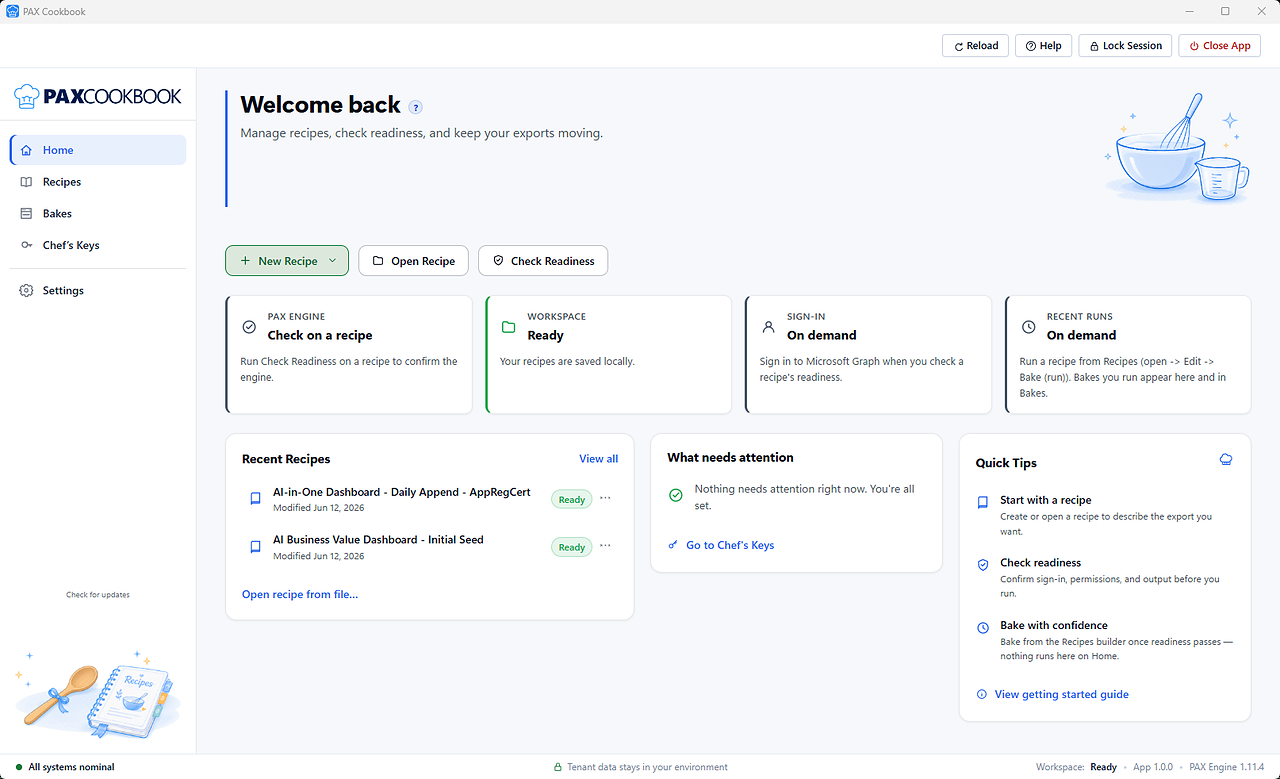
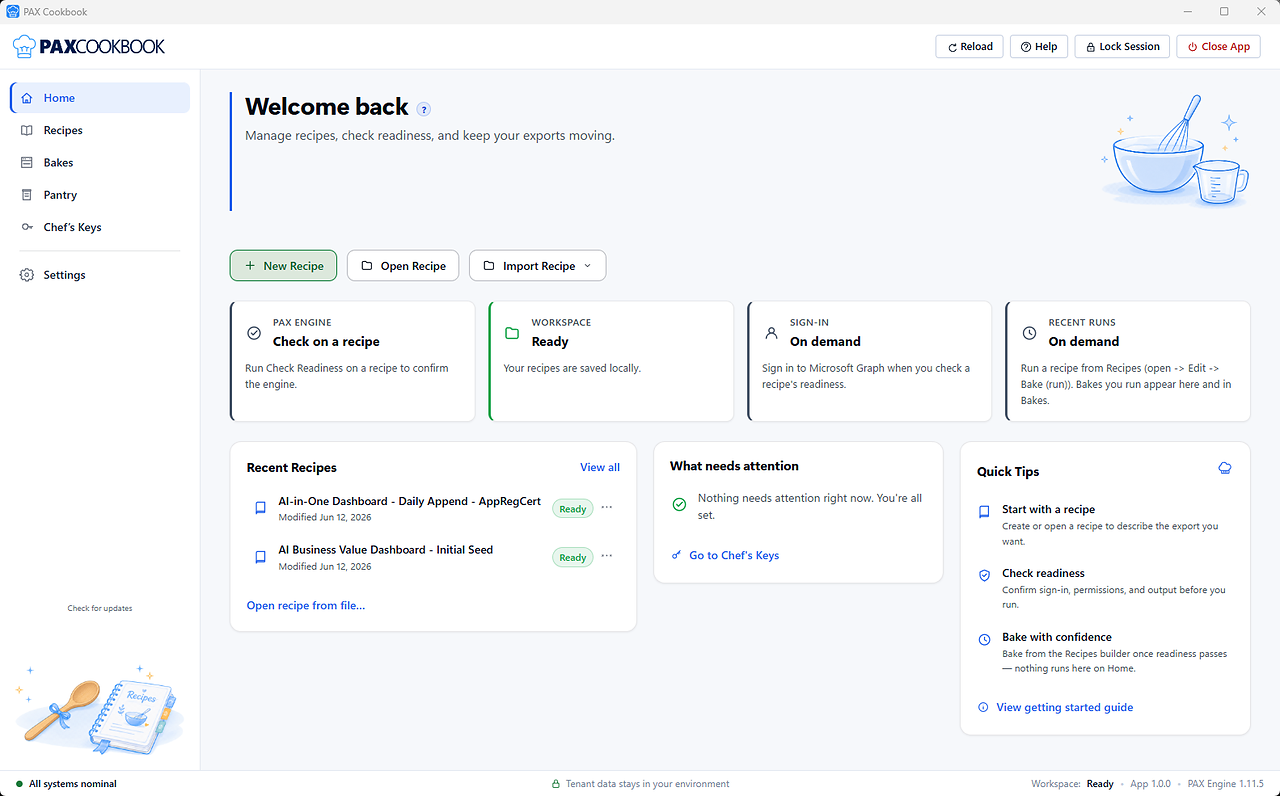
Home hero: update the full-app screenshot to the latest PAX Cookbook home-page capture (now shows PAX Engine 1.11.5). Regenerated pax-app-home-{640,1280,1573}.png from the updated source (_backup/images/PAX App Sample Home Page.png, now 1583x985; uniform LANCZOS downscale, no distortion; largest var

diff --git a/index.html b/index.html
@@ -19,7 +19,7 @@
     <meta property="og:type" content="website" />
     <meta property="og:url" content="https://microsoft.github.io/PAX-Cookbook/" />
     <title>PAX Cookbook | Turn complex Copilot and M365 app audit pulls into repeatable recipes.</title>
-    <script type="module" crossorigin src="/PAX-Cookbook/assets/main-BRf8LHDH.js"></script>
+    <script type="module" crossorigin src="/PAX-Cookbook/assets/main-CWULJsc0.js"></script>
     <link rel="modulepreload" crossorigin href="/PAX-Cookbook/assets/global-CakZyIGS.js">
     <link rel="stylesheet" crossorigin href="/PAX-Cookbook/assets/global-CHAijisD.css">
   </head>

diff --git a/assets/main-CWULJsc0.js b/assets/main-CWULJsc0.js
@@ -1,0 +1,1 @@
+import{j as e,b as r,B as l,o as h,I as n,a as t,l as m,m as b,V as k,d as y,H as g,F as w,C as f,c as v,R as z}from"./global-CakZyIGS.js";function S(){const s=r.hero.proofChips,a="v=20260614";return e.jsx("section",{id:"top",className:"hero",children:e.jsxs("div",{className:"container",children:[e.jsxs("div",{className:"hero__top",children:[e.jsxs("span",{className:"hero__eyebrow",children:[e.jsx("span",{className:"dot","aria-hidden":"true"}),r.hero.eyebrow]}),e.jsxs("div",{className:"hero__head",children:[e.jsxs("h1",{className:"hero__title",children:[r.hero.titlePrefix,e.jsx("span",{className:"hero__title-accent",children:r.hero.titleAccent})]}),e.jsx("p",{className:"hero__sub",children:r.hero.sub})]}),e.jsxs("div",{className:"hero__cta-row",id:"download",children:[e.jsx("div",{className:"hero__cta-primary",children:e.jsxs(l,{type:"button",size:"lg",onClick:h,children:[e.jsxs("span",{className:"btn__main",children:[e.jsx(n,{name:"download"}),r.hero.ctaPrimary]}),e.jsx("img",{className:"btn__win11",src:t("windows11-logo.png"),alt:"Windows 11",width:180,height:36,decoding:"async"})]})}),e.jsxs(l,{href:m.paxRepo,variant:"secondary",size:"lg",children:[e.jsxs("span",{className:"btn__main",children:[e.jsx(n,{name:"github"}),r.hero.ctaSecondary]}),e.jsx("img",{className:"btn__msos",src:t("microsoft-opensource-logo.png"),alt:"Microsoft Open Source",width:306,height:36,decoding:"async"})]})]}),e.jsxs("div",{className:"hero__visual","aria-hidden":"true",children:[e.jsxs("div",{className:"hero-visual-art","aria-hidden":"true",children:[e.jsx("span",{className:"hero-shape hero-shape--amber"}),e.jsx("span",{className:"hero-shape hero-shape--blue"})]}),e.jsx("div",{className:"mockup",children:e.jsx("img",{className:"mockup__img",src:t(`pax-app-home-640.png?${a}`),srcSet:`${t(`pax-app-home-640.png?${a}`)} 640w, ${t(`pax-app-home-1280.png?${a}`)} 1280w, ${t(`pax-app-home-1573.png?${a}`)} 1573w`,sizes:"(max-width: 980px) 92vw, 768px",alt:"",width:1573,height:979,decoding:"async",loading:"eager"})})]})]}),e.jsx("ul",{className:"hero__chips","aria-label":"What you get",children:s.map(i=>e.jsxs("li",{className:`hero__chip hero__chip--${i.tone}`,children:[e.jsx("span",{className:"hero__chip-ico","aria-hidden":"true",children:e.jsx(n,{name:i.icon,size:16})}),e.jsxs("span",{className:"hero__chip-text",children:[e.jsx("span",{className:"hero__chip-label",children:i.label}),e.jsx("span",{className:"hero__chip-sub",children:i.sub})]})]},i.label))})]})})}function o({id:s,eyebrow:a,title:i,lede:c,tone:x="default",narrow:p,children:_,trailing:u}){const N=["section",x==="tinted"?"section--tinted":"",p?"section--narrow":""].filter(Boolean).join(" ");return e.jsx("section",{id:s,className:N,children:e.jsxs("div",{className:"container",children:[(a||i||c)&&e.jsxs("header",{className:"section__head",children:[a&&e.jsx("div",{className:"section__eyebrow",children:a}),i&&e.jsx("h2",{className:"section__title",children:i}),c&&e.jsx("p",{className:"section__lede",children:c}),u]}),_]})})}function d({tone:s="brand",children:a}){const i=`badge badge--${s}`;return e.jsx("span",{className:i,children:a})}function q(){const{raw:s,cookbook:a}=r.rawVsCookbook;return e.jsx(o,{id:"why",eyebrow:r.rawVsCookbook.eyebrow,title:r.rawVsCookbook.title,lede:r.rawVsCookbook.lede,children:e.jsxs("div",{className:"compare",children:[e.jsxs("div",{className:"compare__col compare__col--raw",children:[e.jsxs("div",{className:"compare__head",children:[e.jsx(d,{tone:"neutral",children:"Engine"}),e.jsx("span",{className:"compare__name",children:s.name})]}),e.jsx("p",{className:"muted",children:s.tagline}),e.jsx("ul",{className:"compare__list",children:s.bullets.map(i=>e.jsx("li",{children:i},i))})]}),e.jsx("div",{className:"compare__bridge","aria-hidden":"true",children:e.jsxs("svg",{viewBox:"0 0 24 24",fill:"none",stroke:"currentColor",strokeWidth:"2",strokeLinecap:"round",strokeLinejoin:"round",children:[e.jsx("path",{d:"M5 12h14"}),e.jsx("path",{d:"M13 6l6 6-6 6"})]})}),e.jsxs("div",{className:"compare__col compare__col--cookbook",children:[e.jsxs("div",{className:"compare__head",children:[e.jsx(d,{tone:"brand",children:"Recommended"}),e.jsx("span",{className:"compare__name",children:a.name})]}),e.jsx("p",{className:"muted",children:a.tagline}),e.jsx("ul",{className:"compare__list",children:a.bullets.map(i=>e.jsx("li",{children:i},i))})]})]})})}function C(){return e.jsx(o,{id:"full-kitchen",eyebrow:r.journey.eyebrow,title:r.journey.title,lede:r.journey.lede,tone:"tinted",children:e.jsx("ol",{className:"journey-grid","aria-label":"Kitchen workflow steps",children:r.journey.steps.map((s,a)=>e.jsxs("li",{className:`journey-step journey-step--${s.tone}`,children:[e.jsx("span",{className:"journey-step__node","aria-hidden":"true",children:a+1}),e.jsx("h3",{className:"journey-step__title",children:s.title}),e.jsx("p",{className:"journey-step__body",children:s.body})]},s.title))})})}function M(){return e.jsx(o,{eyebrow:r.features.eyebrow,title:r.features.title,lede:r.features.lede,children:e.jsx("div",{className:"feature-grid",children:r.features.cards.map(s=>e.jsxs("article",{className:`feature-card feature-card--${s.tone}`,children:[e.jsx("span",{className:"feature-card__icon","aria-hidden":"true",children:e.jsx(n,{name:s.icon,size:22})}),e.jsx("h3",{className:"feature-card__title",children:s.title}),e.jsx("p",{className:"feature-card__body",children:s.body})]},s.title))})})}function $(){return e.jsx("section",{id:"trust",className:"section section--navy",children:e.jsxs("div",{className:"container",children:[e.jsxs("header",{className:"section__head",children:[e.jsx("div",{className:"section__eyebrow",children:r.trust.eyebrow}),e.jsx("h2",{className:"section__title",children:r.trust.title})]}),e.jsxs("div",{className:"trust-band",children:[e.jsxs("div",{className:"trust-band__lead",children:[r.trust.body.map((s,a)=>e.jsx("p",{children:s},a)),e.jsx("a",{className:"trust-open-source-logo",href:"https://opensource.microsoft.com/",target:"_blank",rel:"noopener noreferrer","aria-label":"Microsoft Open Source",children:e.jsx("img",{src:t("microsoft-opensource-logo-white.png"),alt:"Microsoft Open Source",width:968,height:114,decoding:"async",loading:"lazy"})})]}),e.jsx("ul",{className:"trust-band__chips","aria-label":"Local-first principles",children:r.trust.pillars.map(s=>e.jsxs("li",{className:`trust-chip trust-chip--${s.tone}`,children:[e.jsx("span",{className:"trust-chip__icon","aria-hidden":"true",children:e.jsx(n,{name:s.icon,size:18})}),e.jsxs("span",{children:[e.jsx("div",{className:"trust-chip__title",children:s.title}),e.jsx("div",{className:"trust-chip__body",children:s.body})]})]},s.title))})]})]})})}function K(){const s=r.miniKitchen;return e.jsx("section",{id:"mini-kitchen",className:"section section--cream mk-splash",children:e.jsxs("div",{className:"container",children:[e.jsxs("header",{className:"section__head",children:[e.jsx("div",{className:"section__eyebrow",children:s.eyebrow}),e.jsx("h2",{className:"section__title",children:s.title})]}),e.jsxs("div",{className:"mk-splash__grid",children:[e.jsxs("div",{className:"mk-splash__copy",children:[e.jsxs("span",{className:"mk-splash__badge","aria-label":"Browser-only",children:[e.jsx(n,{name:"spark",size:14,"aria-hidden":"true"}),s.badge]}),e.jsx("div",{className:"mk-splash__body",children:s.body.map((a,i)=>e.jsx("p",{children:a},i))}),e.jsx("p",{className:"mk-splash__note",children:s.fullAppNote}),e.jsx("ul",{className:"mk-splash__chips","aria-label":"Mini-Kitchen highlights",children:s.chips.map(a=>e.jsx("li",{className:`mk-splash__chip mk-splash__chip--${a.tone}`,children:a.label},a.label))})]}),e.jsxs("div",{className:"mk-splash__compare",children:[e.jsxs("div",{className:"mk-splash__compare-card mk-splash__compare-card--mini",children:[e.jsxs("div",{className:"mk-splash__compare-title",children:[e.jsx(n,{name:"spark",size:16,"aria-hidden":"true"}),s.comparison.mini.title]}),e.jsx("ul",{children:s.comparison.mini.items.map(a=>e.jsx("li",{children:a},a))})]}),e.jsxs("div",{className:"mk-splash__compare-card mk-splash__compare-card--full",children:[e.jsxs("div",{className:"mk-splash__compare-title",children:[e.jsx(n,{name:"pot",size:16,"aria-hidden":"true"}),s.comparison.full.title]}),e.jsx("ul",{children:s.comparison.full.items.map(a=>e.jsx("li",{children:a},a))})]})]})]}),e.jsxs("div",{className:"mk-splash__cta-row",children:[e.jsx(l,{href:b(),className:"btn--stacked",children:e.jsxs("span",{className:"btn__row",children:[s.ctas.primary.label,e.jsx(n,{name:"arrow-right",size:16,"aria-hidden":"true"})]})}),e.jsxs(l,{type:"button",variant:"secondary",size:"md",onClick:h,children:[e.jsx(n,{name:"download",size:16,"aria-hidden":"true"}),s.ctas.secondary.label]}),e.jsxs(l,{href:m.paxRepo,variant:"secondary",size:"md","aria-label":`${s.ctas.tertiary.label} (opens GitHub in a new tab)`,children:[e.jsx(n,{name:"github",size:16,"aria-hidden":"true"}),s.ctas.tertiary.label]})]}),e.jsx(k,{className:"video-player--splash",srcMp4:"media/PAX_MiniKitchen_Teaser_Web_1080p.mp4",captionsVtt:"media/PAX_MiniKitchen_Teaser_Captions.vtt",poster:"media/PAX_MiniKitchen_Teaser_Poster.png",heading:"Watch Mini-Kitchen in action",supportingText:"See how Mini-Kitchen turns PAX setup choices into a copy-ready command."}),e.jsx("p",{className:"mk-splash__boundary",role:"note",children:s.boundaryNote})]})})}function R(){const{fullPath:s,scriptPath:a}=r.quickStart;return e.jsx(o,{id:"get-started",eyebrow:r.quickStart.eyebrow,title:r.quickStart.title,children:e.jsxs("div",{className:"quickstart",children:[e.jsxs("div",{className:"quickstart__col quickstart__col--recommended",children:[e.jsxs("div",{className:"quickstart__intro",children:[e.jsxs("div",{className:"quickstart__head",children:[e.jsx(d,{tone:"brand",children:s.badge}),e.jsx("h3",{children:s.label})]}),e.jsx("p",{className:"quickstart__lede muted",children:s.lede}),e.jsx("div",{className:"quickstart__cta-row",children:e.jsxs(l,{type:"button",size:"lg",onClick:h,children:[e.jsx(n,{name:s.cta.icon}),s.cta.label]})})]}),e.jsx("ol",{className:"quickstart__list",children:s.steps.map(i=>e.jsx("li",{children:e.jsxs("div",{children:[e.jsx("strong",{children:i.title}),e.jsx("small",{children:i.hint})]})},i.title))})]}),e.jsxs("div",{className:"quickstart__col quickstart__col--alt",children:[e.jsxs("div",{className:"quickstart__intro",children:[e.jsxs("div",{className:"quickstart__head",children:[e.jsx(d,{tone:"amber",children:a.badge}),e.jsx("h3",{children:a.label})]}),e.jsx("p",{className:"quickstart__lede muted",children:a.lede}),e.jsxs("div",{className:"quickstart__cta-row",children:[e.jsxs(l,{href:"#mini-kitchen",variant:"secondary",size:"md",children:[e.jsx(n,{name:a.ctas.primary.icon,size:14}),a.ctas.primary.label]}),e.jsxs(l,{href:m.paxRepo,variant:"secondary",size:"md","aria-label":`${a.ctas.secondary.label} (opens GitHub in a new tab)`,children:[e.jsx(n,{name:a.ctas.secondary.icon,size:14}),a.ctas.secondary.label]})]})]}),e.jsx("ol",{className:"quickstart__list",children:a.steps.map(i=>e.jsx("li",{children:e.jsxs("div",{children:[e.jsx("strong",{children:i.title}),e.jsx("small",{children:i.hint})]})},i.title))})]})]})})}function E(){return e.jsx(o,{id:"resources",eyebrow:r.resources.eyebrow,title:r.resources.title,lede:r.resources.lede,tone:"tinted",children:e.jsx("div",{className:"resources-grid",children:r.resources.columns.map(s=>e.jsxs("article",{className:`resources-col resources-col--${s.tone}`,children:[e.jsx("span",{className:"resources-col__icon","aria-hidden":"true",children:e.jsx(n,{name:s.icon,size:18})}),e.jsx("h3",{children:s.title}),e.jsx("ul",{children:s.links.map(a=>{if("comingSoon"in a&&a.comingSoon)return e.jsx("li",{children:e.jsxs("button",{type:"button",className:"resources-col__link-btn",onClick:h,children:[a.label,e.jsx(n,{name:"arrow-right",size:12})]})},a.label);const c=m[a.linkKey],x=/^https?:\/\//.test(c);return e.jsx("li",{children:e.jsxs("a",{href:c,...x?{rel:"noopener noreferrer",target:"_blank"}:{},children:[a.label,e.jsx(n,{name:"arrow-right",size:12})]})},a.label)})})]},s.title))})})}function P(){return y.useEffect(()=>{const s=window.location.hash;if(!s||s==="#"||s==="#top")return;const a=decodeURIComponent(s.slice(1));function i(){const c=document.getElementById(a);return c?(c.scrollIntoView({block:"start"}),!0):!1}requestAnimationFrame(()=>{i(),document.readyState!=="complete"&&window.addEventListener("load",i,{once:!0})})},[]),e.jsxs("div",{className:"app-shell",children:[e.jsx("a",{href:"#main",className:"skip-link",children:"Skip to main content"}),e.jsx(g,{}),e.jsxs("main",{id:"main",children:[e.jsx(S,{}),e.jsx(q,{}),e.jsx(C,{}),e.jsx(M,{}),e.jsx($,{}),e.jsx(R,{}),e.jsx(K,{}),e.jsx(E,{})]}),e.jsx(w,{}),e.jsx(f,{})]})}const j=document.getElementById("root");if(!j)throw new Error("Root element #root not found in index.html");v.createRoot(j).render(e.jsx(z.StrictMode,{children:e.jsx(P,{})}));